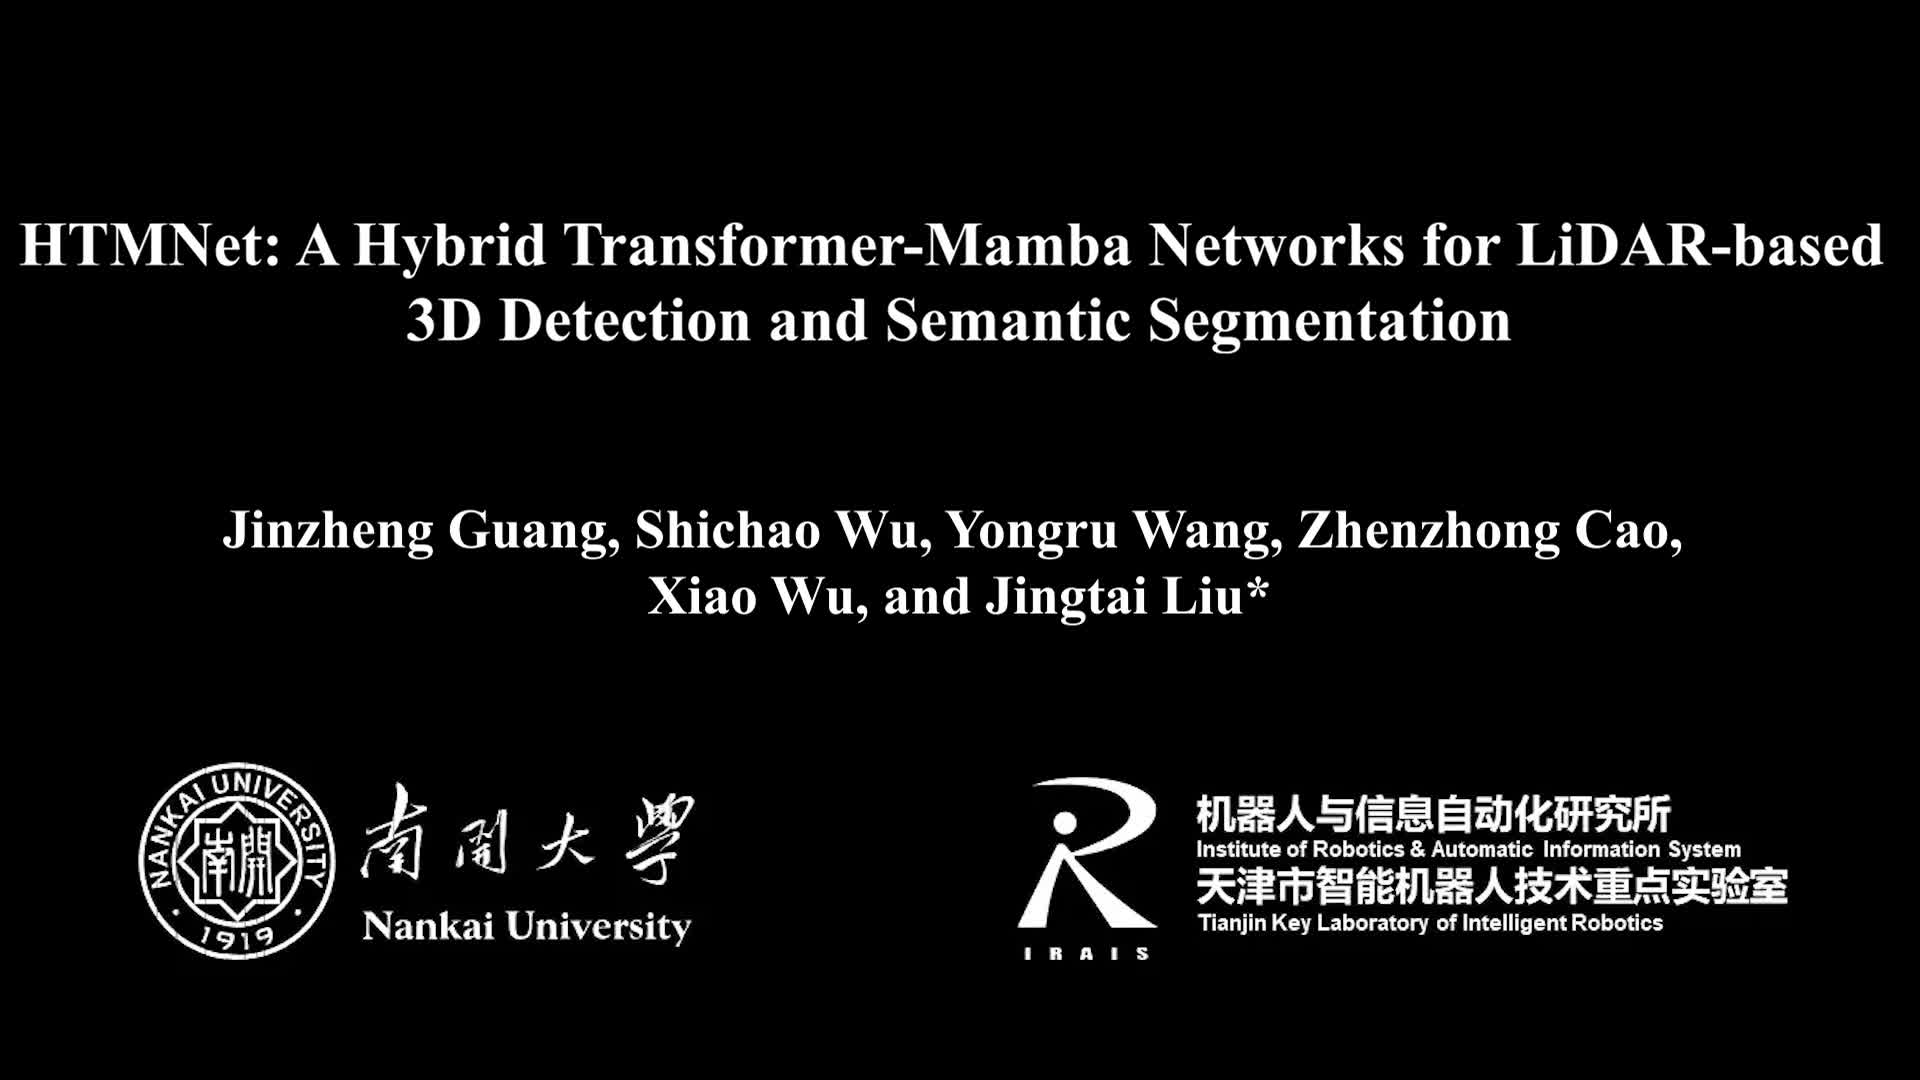
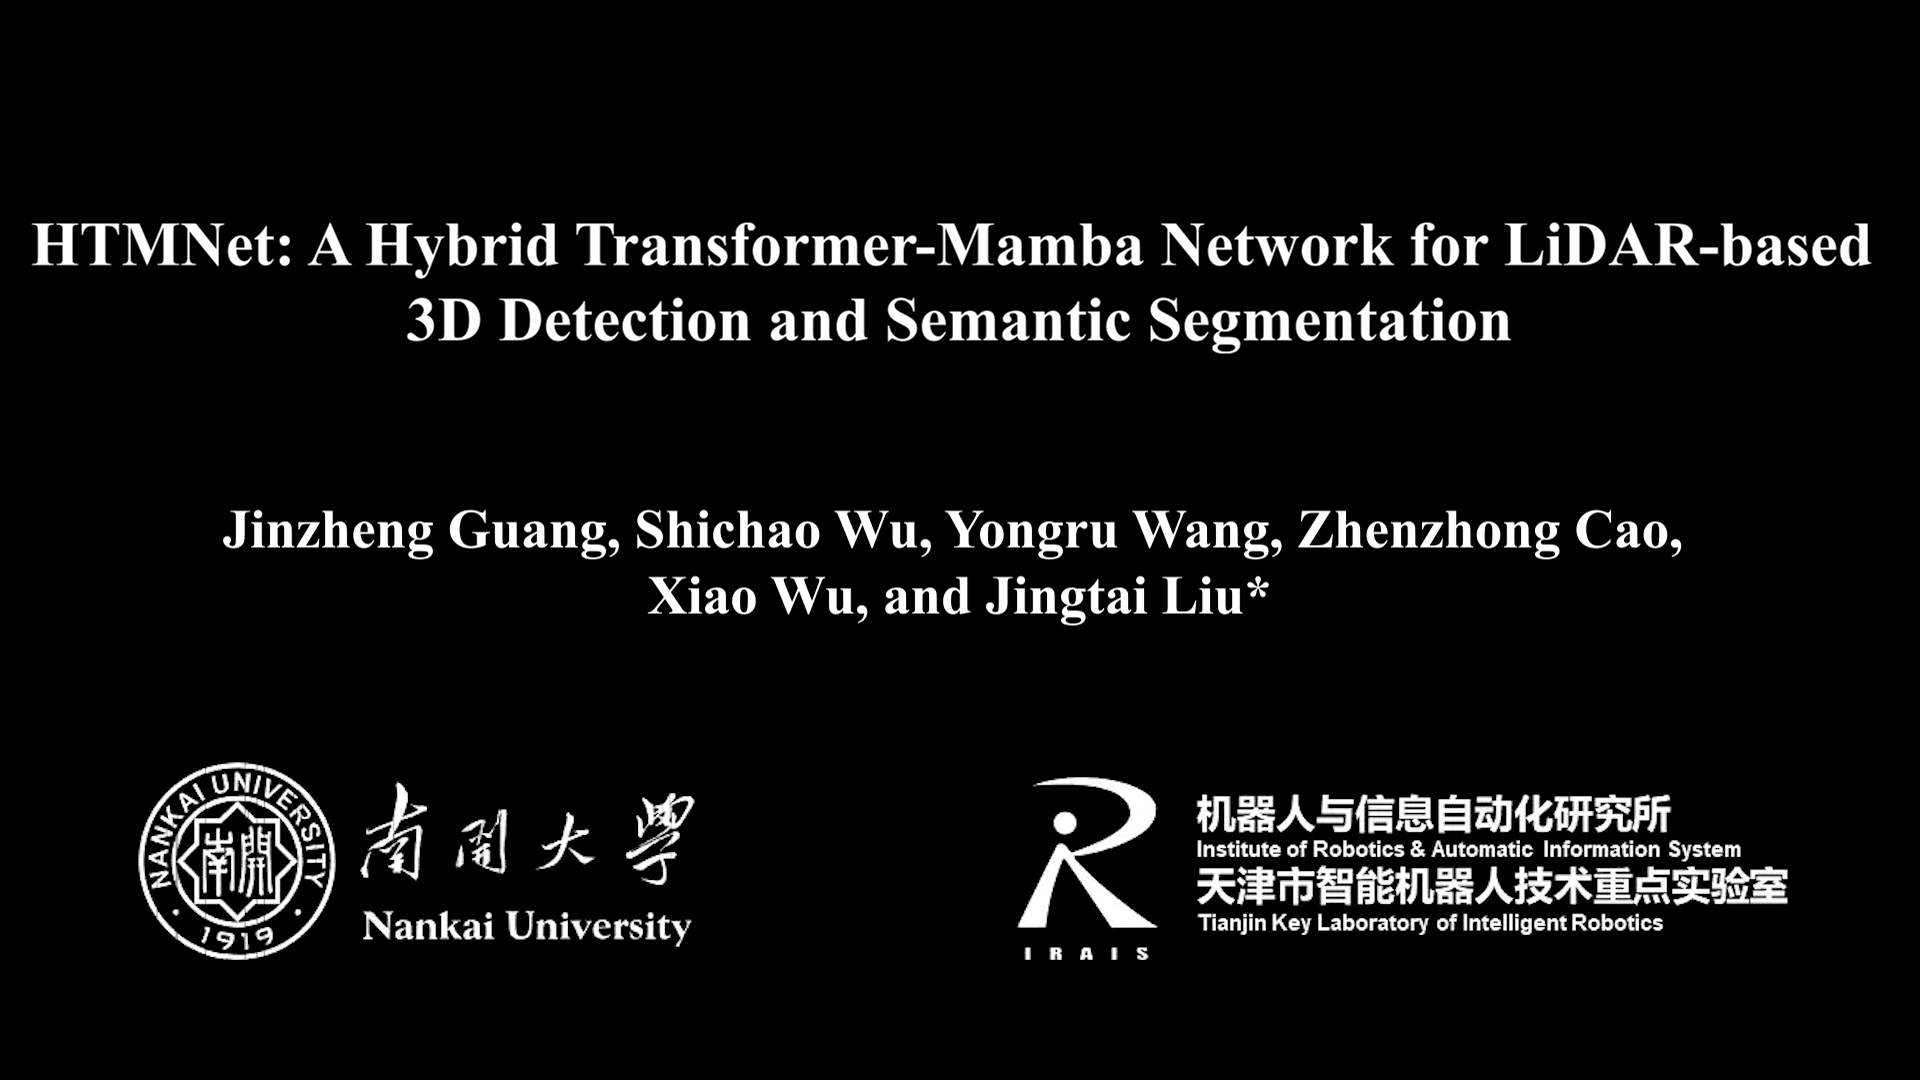
HTMNet

Changed region(s): [[0.0, 0.1833, 1.0, 0.275]]

diff --git a/README.md b/README.md
@@ -1,11 +1,11 @@
 # HTMNet
 
-Official PyTorch implementation of HTMNet: A Hybrid Transformer-Mamba Networks for LiDAR-based 3D Detection and Semantic Segmentation
+Official PyTorch implementation of HTMNet: A Hybrid Transformer-Mamba Network for LiDAR-based 3D Detection and Semantic Segmentation
 
-### [https://www.youtube.com/watch?v=ZVTUQhSu7Cc](https://www.youtube.com/watch?v=ZVTUQhSu7Cc)
+### [https://www.youtube.com/watch?v=_7OWfAxLXQs](https://www.youtube.com/watch?v=_7OWfAxLXQs)
 
 
-[![](img/video.jpg)](https://youtu.be/ZVTUQhSu7Cc "")
+[![](img/video.jpg)](https://youtu.be/_7OWfAxLXQs "")
 
 ## Experimental Results
 
